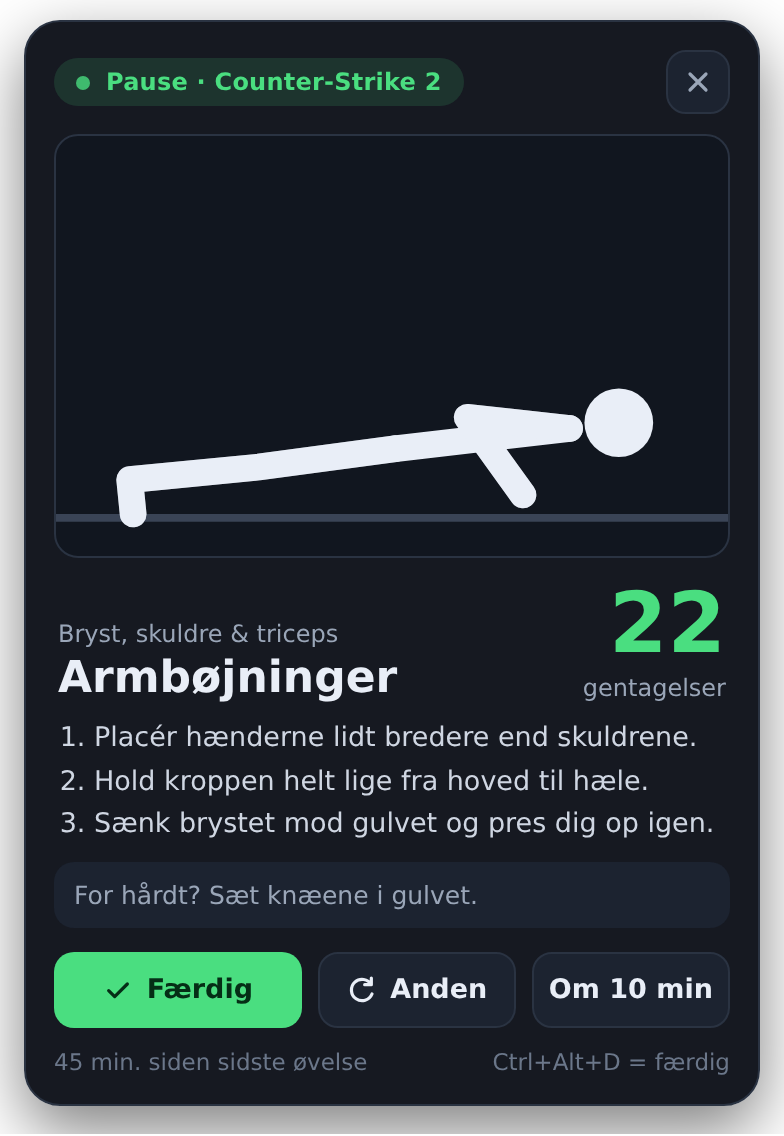
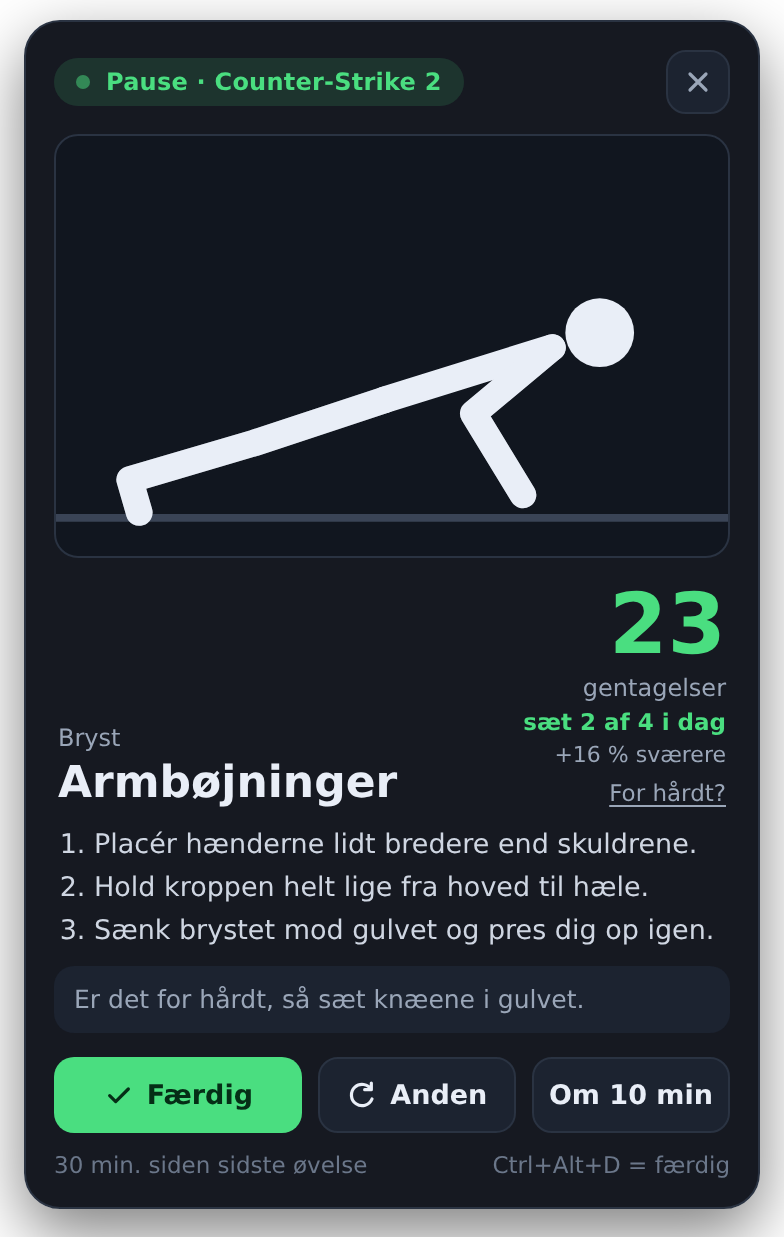
Tidy the UI text and spacing, remove dead code and a duplicate release path
UI:
- Muscle groups in focus use the same thin outline as everything else
  (no thicker left edge)
- Shorter texts: focus cards say "59 øvelser" instead of wrapping "… med dit
  udstyr", shorter intros for Fokus and Øvelser, "Lige nu" panel heading,
  "Pausesignal", shorter sidebar note; the Pauser step no longer explains
  exclusive fullscreen twice; known games are shown without "(kendt spil)"
- Spacing: room between the summary and the muscle groups, hotkeys aligned
  with their key boxes, wider troubleshooting rows
- Overlay: short adjustment text ("+16 % sværere", "Sat ned") with the
  explanation on hover; "1 t." instead of "1 t. 0 min."; exercise tips no
  longer repeat "For hårdt?" next to the button with that name

Cleanup:
- Removed exports nothing used, and two functions only the tests called
  (parseTasklistCsv, isExclusiveFullscreen)
- One way to release: the "Udgiv ny version" workflow. Removed the
  `npm run release` script and the tag-triggered release in build.yml,
  which now only tests and builds
- README: new screenshots of the overview and overlay (the old ones showed
  5 steps and old group names), shorter step descriptions, file tree updated

Claude-Session: https://claude.ai/code/session_01896R8xxKMH8LGbATbLBdsG

diff --git a/src/renderer/setup/index.html b/src/renderer/setup/index.html
@@ -68,10 +68,7 @@
         </nav>
 
         <div class="sidebar-foot">
-          <p class="sidebar-note">
-            Workoutslop kører videre i baggrunden, når du lukker vinduet. Åbn det igen fra startmenuen eller ikonet ved
-            uret.
-          </p>
+          <p class="sidebar-note">Workoutslop kører videre, når du lukker vinduet. Åbn det igen fra ikonet ved uret.</p>
           <div class="update-box">
             <div class="update-version" id="app-version"></div>
             <div class="update-text" id="update-text" role="status"></div>
@@ -100,7 +97,7 @@
             <p class="warning" id="ov-warning" hidden></p>
             <div class="ov-grid">
               <section class="panel">
-                <h2>Det registrerer Workoutslop lige nu</h2>
+                <h2>Lige nu</h2>
                 <dl class="signals" id="ov-signals"></dl>
               </section>
               <section class="panel">
@@ -169,9 +166,8 @@
             <p class="eyebrow">Trin 3 af 6</p>
             <h1>Hvad vil du træne?</h1>
             <p class="lead">
-              Vælg ét eller flere områder – fx <b>Bryst &amp; skuldre</b> + <b>Arme</b> – eller lav dine egne dage med
-              de muskelgrupper, du vil kombinere. Du kan også skifte fokus fra ikonet i systembakken, når du sætter dig
-              til at spille.
+              Vælg ét eller flere områder, eller lav dine egne dage. Du kan også skifte fokus fra ikonet ved uret, når
+              du sætter dig til at spille.
             </p>
             <div class="focus-grid" id="focus"></div>
             <p class="count" id="focus-count"></p>
@@ -180,7 +176,7 @@
               <h2 id="day-editor-title">Lav din egen dag</h2>
               <label class="field-label" for="day-name">Navn</label>
               <input id="day-name" class="text-input" maxlength="40" placeholder="Fx Push, Overkrop eller Mandag" />
-              <p class="field-label">Muskelgrupper – vælg dem, du vil træne sammen</p>
+              <p class="field-label">Muskelgrupper</p>
               <div class="group-chips" id="day-groups"></div>
               <p class="day-count" id="day-count"></p>
               <div class="day-actions">
@@ -196,8 +192,8 @@
             <p class="eyebrow">Trin 4 af 6</p>
             <h1>Øvelser og sæt</h1>
             <p class="lead">
-              Vælg hvor mange sæt hver muskelgruppe skal have om dagen, og hvilke øvelser du vil have. Sættene fordeles
-              over de øvelser, du har valgt. Når dagens sæt er lavet, holder Workoutslop fri til i morgen.
+              Vælg hvor mange sæt hver muskelgruppe skal have om dagen, og hvilke øvelser du vil have. Når dagens sæt er
+              lavet, holder Workoutslop fri til i morgen.
             </p>
             <p class="count" id="plan-summary"></p>
             <div class="muscle-list" id="muscles"></div>
@@ -256,8 +252,8 @@
                   <button type="button" data-corner="bottom-right" aria-label="Nederst til højre"></button>
                 </div>
                 <p class="hint">
-                  Vælg et hjørne, hvor overlayet ikke dækker noget vigtigt. Overlayet kan ses over spil i
-                  <b>kantløst vindue</b> (borderless). I eksklusiv fuldskærm læses øvelsen højt i stedet.
+                  Vælg et hjørne, hvor overlayet ikke dækker noget vigtigt. Det kan ses over spil i
+                  <b>kantløst vindue</b> (borderless).
                 </p>
               </div>
             </div>

diff --git a/src/main/main.js b/src/main/main.js
@@ -528,13 +528,13 @@ function todayText(now) {
   return describeToday(todaySummary(store.history, now, EXERCISES));
 }
 
-// Forklarer, hvis mængden er tilpasset brugeren (progression eller "For hårdt").
-function adjustText(suggestion) {
-  if (suggestion.eased) return 'Sat ned – den er også lettere næste gang';
+// Kort tekst (og forklaring), hvis mængden er tilpasset brugeren (progression eller "For hårdt").
+function adjustment(suggestion) {
+  if (suggestion.eased) return { text: 'Sat ned', title: 'Den starter også lavere næste gang.' };
   const pct = Math.round(((suggestion.progress ?? 1) - 1) * 100);
-  if (pct >= 1) return `+${pct} % – du har klaret den før`;
-  if (pct <= -1) return `${pct} % efter "For hårdt"`;
-  return '';
+  if (pct >= 1) return { text: `+${pct} % sværere`, title: 'Du har klaret den flere gange, så den er gjort sværere.' };
+  if (pct <= -1) return { text: `${pct} % lettere`, title: 'Sat ned, fordi du har trykket "For hårdt".' };
+  return { text: '', title: '' };
 }
 
 function overlayPayload(current, fresh) {
@@ -557,7 +557,7 @@ function overlayPayload(current, fresh) {
     },
     amount: suggestion.amount,
     unitLabel: engine.unitLabel(ex, suggestion.amount),
-    adjustText: adjustText(suggestion),
+    adjust: adjustment(suggestion),
     canEase: engine.easierSuggestion(suggestion) != null,
     sinceText: engine.describeTimeSince(suggestion.minutesSinceLast),
     setText: setProgressText(ex, current.settingsOverride || settings),
@@ -637,7 +637,7 @@ const PAUSE_SIGNALS = {
   integration: (game) => `${game} fortæller selv, når kampen slutter`,
   process: () => 'Lobby og kamp skelnes på spillets programmer',
   focus: () => 'Du har alt-tabbet ud af spillet',
-  idle: () => `Ingen aktivitet i ${settings.idleSeconds} sek. = pause`,
+  idle: () => `Ingen aktivitet i ${settings.idleSeconds} sek.`,
   none: () => 'Kun genvejstasten (inaktivitet er slået fra)',
 };
 
@@ -674,16 +674,17 @@ function overviewStatus() {
   }
 
   const signals = [];
-  const kind = gameKind(definition);
+  // Kendte spil står bare med navn – fundne og egne spil får en forklaring.
+  const kind = definition?.custom || definition?.auto ? ` (${gameKind(definition)})` : '';
   signals.push({
     label: 'Spil',
-    value: game ? `${game.name} (${kind})` : 'Intet spil kører',
+    value: game ? `${game.name}${kind}` : 'Intet spil kører',
     // Et automatisk fundet program, der ikke er et spil, kan fjernes direkte herfra.
     action: game && definition?.auto ? { label: 'Ikke et spil', process: definition.processes[0] } : null,
   });
   if (game) {
     const source = lastPause.source in PAUSE_SIGNALS ? lastPause.source : 'idle';
-    signals.push({ label: 'Pauser findes ved', value: PAUSE_SIGNALS[source](game.name) });
+    signals.push({ label: 'Pausesignal', value: PAUSE_SIGNALS[source](game.name) });
   }
   let warning = null;
   if (game && caps.foregroundWindow && focus.gameFocused != null) {

diff --git a/src/core/exercises.js b/src/core/exercises.js
@@ -27,7 +27,7 @@ const EXERCISES = [
       'Hold kroppen helt lige fra hoved til hæle.',
       'Sænk brystet mod gulvet og pres dig op igen.',
     ],
-    tip: 'For hårdt? Sæt knæene i gulvet.',
+    tip: 'Er det for hårdt, så sæt knæene i gulvet.',
   },
   {
     id: 'kneePushup',
@@ -230,7 +230,7 @@ const EXERCISES = [
       'Hold albuerne tæt ind til kroppen.',
       'Sænk brystet mod hænderne og pres op igen.',
     ],
-    tip: 'For hårdt? Lav dem med knæene i gulvet.',
+    tip: 'Er det for hårdt, så lav dem med knæene i gulvet.',
   },
   {
     id: 'chinTuck',
@@ -954,7 +954,7 @@ const EXERCISES = [
       'Løft hoften, så kroppen er lige fra hoved til fødder.',
       'Hold – tag halvdelen af tiden på hver side.',
     ],
-    tip: 'For hårdt? Sæt det nederste knæ i gulvet.',
+    tip: 'Er det for hårdt, så sæt det nederste knæ i gulvet.',
   },
   {
     id: 'jumpSquat',
@@ -1016,7 +1016,7 @@ const EXERCISES = [
       'Pres gennem hælene, og løft hoften, til kroppen er vandret fra knæ til skuldre.',
       'Klem ballerne i toppen, og sænk langsomt.',
     ],
-    tip: 'For let? Læg en håndvægt på hoften.',
+    tip: 'Er det for let, så læg en håndvægt på hoften.',
   },
   {
     id: 'frontRaise',

diff --git a/src/renderer/setup/setup.js b/src/renderer/setup/setup.js
@@ -165,7 +165,7 @@
   function focusCountText(n) {
     if (n == null) return '';
     if (n === 0) return 'Ingen øvelser med dit udstyr';
-    return n === 1 ? '1 øvelse med dit udstyr' : `${n} øvelser med dit udstyr`;
+    return n === 1 ? '1 øvelse' : `${n} øvelser`;
   }
 
   function renderFocus() {
@@ -235,7 +235,7 @@
           [
             focusFigure(GROUP_FIGURES[day.groups[0]] || FOCUS_FIGURES.all),
             el('span', { class: 'choice-title', text: day.name }),
-            el('span', { class: 'choice-text', text: day.groups.map(groupName).join(', ') }),
+            el('span', { class: 'choice-text', text: day.groups.map(groupName).join(' + ') }),
             el('span', { class: n === 0 ? 'choice-example warn' : 'choice-example', text: focusCountText(n) }),
             el('span', { class: 'choice-mark', html: CHECK_ICON }),
           ],
@@ -256,7 +256,7 @@
             el('span', { class: 'choice-title', text: 'Lav din egen dag' }),
             el('span', {
               class: 'choice-text',
-              text: 'Kombinér de muskelgrupper, du vil træne – fx bryst, skuldre og triceps.',
+              text: 'Kombinér selv de muskelgrupper, du vil træne.',
             }),
           ])
         : null;

diff --git a/src/renderer/setup/setup.css b/src/renderer/setup/setup.css
@@ -655,11 +655,13 @@ code {
 .hotkeys {
   display: grid;
   grid-template-columns: auto 1fr;
+  align-items: center;
   gap: 8px 16px;
   margin: 12px 0 0;
   font-size: 14px;
 }
 .hotkeys dt kbd {
+  display: inline-block;
   padding: 3px 8px;
   border-radius: 6px;
   border: 1px solid var(--border);
@@ -737,6 +739,7 @@ button:focus-visible {
 .muscle-list {
   display: grid;
   gap: 12px;
+  margin-top: 14px;
 }
 .muscle {
   padding: 14px 16px;
@@ -1237,12 +1240,12 @@ button:focus-visible {
 }
 .debug-grid {
   display: grid;
-  grid-template-columns: repeat(auto-fit, minmax(300px, 1fr));
+  grid-template-columns: repeat(auto-fit, minmax(420px, 1fr));
   gap: 14px;
   margin-bottom: 14px;
 }
 .debug .signals {
-  grid-template-columns: minmax(110px, auto) 1fr;
+  grid-template-columns: 180px 1fr;
   font-size: 13px;
 }
 .debug .signals dd {
@@ -1375,7 +1378,6 @@ button:focus-visible {
 /* Fokus i trin 4 ---------------------------------------------------------------- */
 .muscle.in-focus {
   border-color: var(--accent);
-  box-shadow: inset 3px 0 0 var(--accent);
 }
 .muscle.out-of-focus {
   opacity: 0.62;

diff --git a/test/windows-native.test.js b/test/windows-native.test.js
@@ -12,7 +12,6 @@ test('uden for Windows slås funktionerne stille fra', { skip: process.platform 
     windowList: false,
   });
   assert.equal(native.readGamepad(0), null);
-  assert.equal(native.isExclusiveFullscreen(), null);
   assert.equal(native.notificationState(), null);
   assert.equal(native.foregroundWindow(), null);
   assert.equal(native.visibleWindowPids(), null);
@@ -33,7 +32,6 @@ test('Windows: controller, fuldskærm og forgrundsvindue kan aflæses', { skip: 
     assert.ok(state === null || typeof state.dwPacketNumber === 'number');
   }
   assert.ok(['exclusive', 'fullscreen', 'normal'].includes(native.notificationState()));
-  assert.equal(typeof native.isExclusiveFullscreen(), 'boolean');
 
   // En build-server har ikke nødvendigvis et vindue i forgrunden – men hvis den har, skal oplysningerne give mening.
   const fg = native.foregroundWindow();

diff --git a/src/core/workout-engine.js b/src/core/workout-engine.js
@@ -285,22 +285,17 @@ function describeTimeSince(minutesSinceLast) {
   if (minutesSinceLast < 60) return `${Math.round(minutesSinceLast)} min. siden sidste øvelse`;
   const hours = Math.floor(minutesSinceLast / 60);
   const minutes = Math.round(minutesSinceLast % 60);
-  return `${hours} t. ${minutes} min. siden sidste øvelse`;
+  return minutes === 0 ? `${hours} t. siden sidste øvelse` : `${hours} t. ${minutes} min. siden sidste øvelse`;
 }
 
 module.exports = {
-  TIME_CURVE,
   FRESH_START_MINUTES,
   timeFactor,
   hasEquipment,
   allFocusAreas,
   focusAreasOf,
   focusGroups,
-  matchesFocus,
-  setsFor,
-  isEnabled,
   availableExercises,
-  setsDoneToday,
   dailyPlan,
   difficultyWeight,
   progressionFactor,

diff --git a/src/core/games.js b/src/core/games.js
@@ -145,10 +145,6 @@ function parseTasklistEntries(output) {
   return entries;
 }
 
-function parseTasklistCsv(output) {
-  return parseTasklistEntries(output).map((e) => e.name);
-}
-
 // macOS/Linux: `ps -A -o comm=` giver ét navn (eller en sti) pr. linje.
 function parsePsOutput(output) {
   return String(output)
@@ -219,13 +215,11 @@ function selectableProcesses(processNames) {
 module.exports = {
   KNOWN_GAMES,
   normalizeProcessName,
-  createProcessMatcher,
   customGamesToDefinitions,
   autoGamesToDefinitions,
   detectGame,
   GameDetector,
   parseTasklistEntries,
-  parseTasklistCsv,
   parsePsOutput,
   selectableProcesses,
 };

diff --git a/src/main/windows-native.js b/src/main/windows-native.js
@@ -133,12 +133,6 @@ function notificationState() {
   return 'normal';
 }
 
-// true/false – eller null, hvis det ikke kan afgøres (fx ikke Windows).
-function isExclusiveFullscreen() {
-  const state = notificationState();
-  return state == null ? null : state === 'exclusive';
-}
-
 function processPath(win, pid) {
   const handle = Number(win.OpenProcess(PROCESS_QUERY_LIMITED_INFORMATION, 0, pid));
   if (!handle) return null;
@@ -230,7 +224,6 @@ module.exports = {
   XUSER_MAX_COUNT,
   readGamepad,
   notificationState,
-  isExclusiveFullscreen,
   foregroundWindow,
   visibleWindowPids,
   bringToTop,

diff --git a/test/games.test.js b/test/games.test.js
@@ -89,7 +89,6 @@ test('et spil, der fjernes fra listen, forsvinder med det samme', () => {
 
 test('parser tasklist og ps', () => {
   const csv = '"System Idle Process","0","Services","0","8 K"\r\n"cs2.exe","4242","Console","1","1.234.567 K"\r\n';
-  assert.deepEqual(games.parseTasklistCsv(csv), ['System Idle Process', 'cs2.exe']);
   assert.deepEqual(games.parseTasklistEntries(csv), [
     { name: 'System Idle Process', pid: 0 },
     { name: 'cs2.exe', pid: 4242 },

diff --git a/src/renderer/overlay/overlay.js b/src/renderer/overlay/overlay.js
@@ -44,7 +44,8 @@
     $('amount').textContent = next.amount;
     $('unit').textContent = next.unitLabel;
     $('set-progress').textContent = next.setText || '';
-    $('adjust').textContent = next.adjustText || '';
+    $('adjust').textContent = next.adjust.text;
+    $('adjust').title = next.adjust.title;
     $('easier').hidden = !next.canEase;
 
     const steps = $('steps');

diff --git a/src/core/game-detection.js b/src/core/game-detection.js
@@ -300,4 +300,4 @@ function isGameFocused(game, foreground) {
   return game.processes.some((p) => normalizeProcessName(p) === exe);
 }
 
-module.exports = { LIBRARY_PATTERNS, gameFromPath, isNotGame, isKnownNonGame, GameFinder, isGameFocused };
+module.exports = { gameFromPath, isNotGame, isKnownNonGame, GameFinder, isGameFocused };
